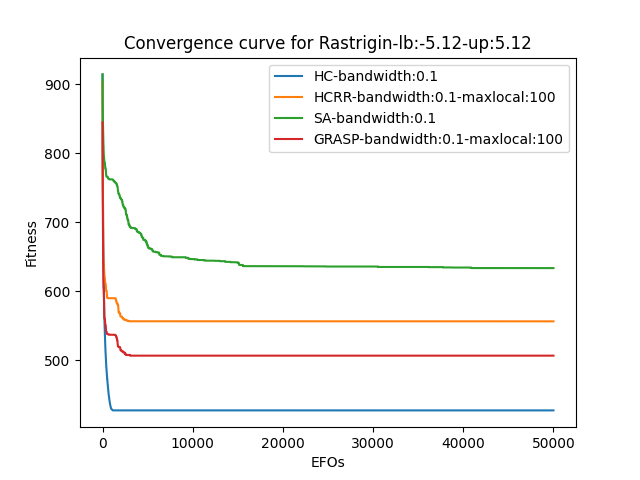
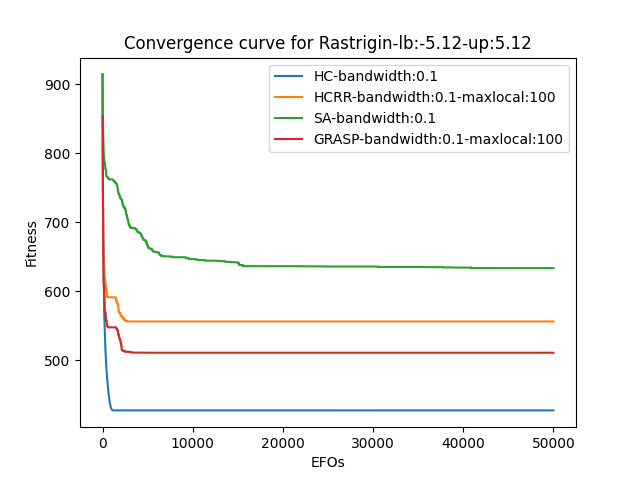
Taller corregido con conteo de efos

Changed region(s): [[0.1562, 0.5938, 0.8438, 0.7188], [0.1875, 0.7188, 0.875, 0.75], [0.1562, 0.25, 0.1875, 0.2812]]

diff --git a/Funciones-continuas/algorithms/GRASP.py b/Funciones-continuas/algorithms/GRASP.py
@@ -19,10 +19,12 @@ class GRASP:
             S.Initialization_GRASP()
             if efos == 0:
                 self.best = solution(d, f)
-                self.best.from_solution(S)  # self.best is a full copy of S
-                best_fitness_history[0] = self.best.fitness
-            for i  in range (0, int(self.best.size*0.5)):
-                best_fitness_history[efos] = self.best.fitness
+                self.best.from_solution(S)  # self.best is a full copy of S  
+            else:
+                if S.fitness < self.best.fitness:
+                    self.best.from_solution(S)  # self.best is a full copy of S                              
+            best_fitness_history[efos:efos+26] = self.best.fitness
+            efos += 26
             # Perform the hill climbig optimization (local)
             for opt in range(1, self.max_local):
                 R = solution(S.size, S.function)

diff --git a/Funciones-continuas/algorithms/HCRR.py b/Funciones-continuas/algorithms/HCRR.py
@@ -19,8 +19,12 @@ class HCRR:
             S.Initialization()  # Random initialization and calculating fitness
             if efos == 0:
                 self.best = solution(d, f)
-                self.best.from_solution(S)  # self.best is a full copy of S
-                best_fitness_history[0] = self.best.fitness
+                self.best.from_solution(S)  
+            else:
+                if S.fitness < self.best.fitness:
+                    self.best.from_solution(S)  # self.best is a full copy of S                              
+            best_fitness_history[efos] = self.best.fitness
+            efos += 1
             # Perform the hill climbig optimization (local)
             for opt in range(1, self.max_local):
                 R = solution(S.size, S.function)

diff --git a/Problema-de-la-mochila-binaria/algorithms/GRASP.py b/Problema-de-la-mochila-binaria/algorithms/GRASP.py
@@ -21,7 +21,11 @@ class GRASP:
             if efos == 0:
                 self.best = solution(problem) 
                 self.best.from_solution(S)  # self.best is a full copy of S
-                best_fitness_history[0] = self.best.fitness                
+            else:
+                if S.fitness < self.best.fitness:
+                    self.best.from_solution(S)  # self.best is a full copy of S                              
+            best_fitness_history[efos] = self.best.fitness
+            efos += 1
             for opt in range(1, self.max_local):
                 R = solution(S.problem)
                 R.from_solution(S)  # R is a full copy of S

diff --git a/Problema-viajero-TSP/algorithms/GRASP.py b/Problema-viajero-TSP/algorithms/GRASP.py
@@ -20,7 +20,11 @@ class GRASP:
             if efos == 0:
                 self.best = solution(problem) 
                 self.best.from_solution(S)  # self.best is a full copy of S
-                best_fitness_history[0] = self.best.fitness                
+            else:
+                if S.fitness < self.best.fitness:
+                    self.best.from_solution(S)  # self.best is a full copy of S                              
+            best_fitness_history[efos] = self.best.fitness
+            efos += 1
             for opt in range(1, self.max_local):
                 R = solution(S.problem)
                 R.from_solution(S)  # R is a full copy of S

diff --git a/Problema-de-la-mochila-binaria/algorithms/HCRR.py b/Problema-de-la-mochila-binaria/algorithms/HCRR.py
@@ -22,7 +22,11 @@ class HCRR:
             if efos == 0:
                 self.best = solution(problem)
                 self.best.from_solution(S)  # self.best is a full copy of S
-                best_fitness_history[0] = self.best.fitness
+            else:
+                if S.fitness < self.best.fitness:
+                    self.best.from_solution(S)  # self.best is a full copy of S                              
+            best_fitness_history[efos] = self.best.fitness
+            efos += 1
             # Perform the hill climbig optimization (local)
             for opt in range(1, self.max_local):
                 R = solution(S.problem)

diff --git a/Problema-viajero-TSP/algorithms/HCRR.py b/Problema-viajero-TSP/algorithms/HCRR.py
@@ -20,7 +20,11 @@ class HCRR:
             if efos == 0:
                 self.best = solution(problem)
                 self.best.from_solution(S)  # self.best is a full copy of S
-                best_fitness_history[0] = self.best.fitness
+            else:
+                if S.fitness < self.best.fitness:
+                    self.best.from_solution(S)  # self.best is a full copy of S                              
+            best_fitness_history[efos] = self.best.fitness
+            efos += 1
             for opt in range(1, self.max_local):
                 R = solution(S.problem)
                 R.from_solution(S)  # R is a full copy of S

diff --git a/Funciones-continuas/main.py b/Funciones-continuas/main.py
@@ -19,14 +19,16 @@ repetitions = 31
 
 # Afinamiento de parametros
 bw = 0.1
-max_local = 500
+max_local = 101
 
 functions = [sphere(), step(), schwefel(), ackley(), griewank(), rastrigin()]
+functions = [schwefel()]
 hc = HC(max_efos=max_efos, bandwidth=bw)
 hcrr = HCRR(max_efos=max_efos, max_local=max_local, bandwidth=bw)
 sa = SA(max_efos=max_efos, bandwidth=bw)
 grasp = GRASP(max_local=max_local, max_efos=max_efos, bandwidth=bw)
-algorithms = [hc, hcrr, sa, grasp]
+#algorithms = [hc, hcrr, sa, grasp]
+algorithms = [grasp]
 
 df = pd.DataFrame({'Problem': pd.Series(dtype='str'),
                    'Average Fitness': pd.Series(dtype='float'),
